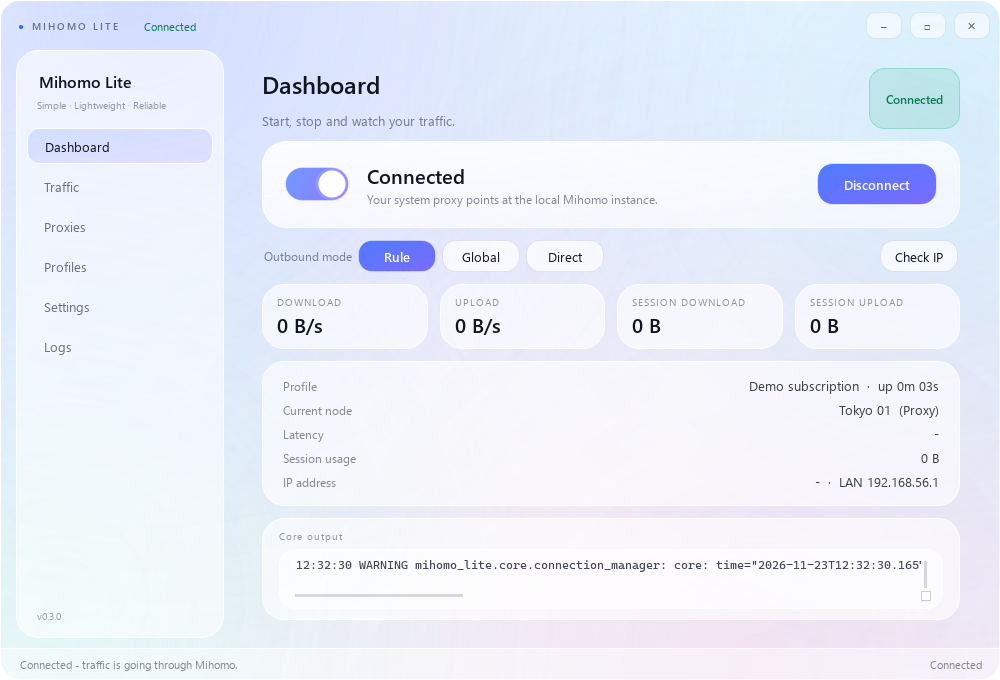
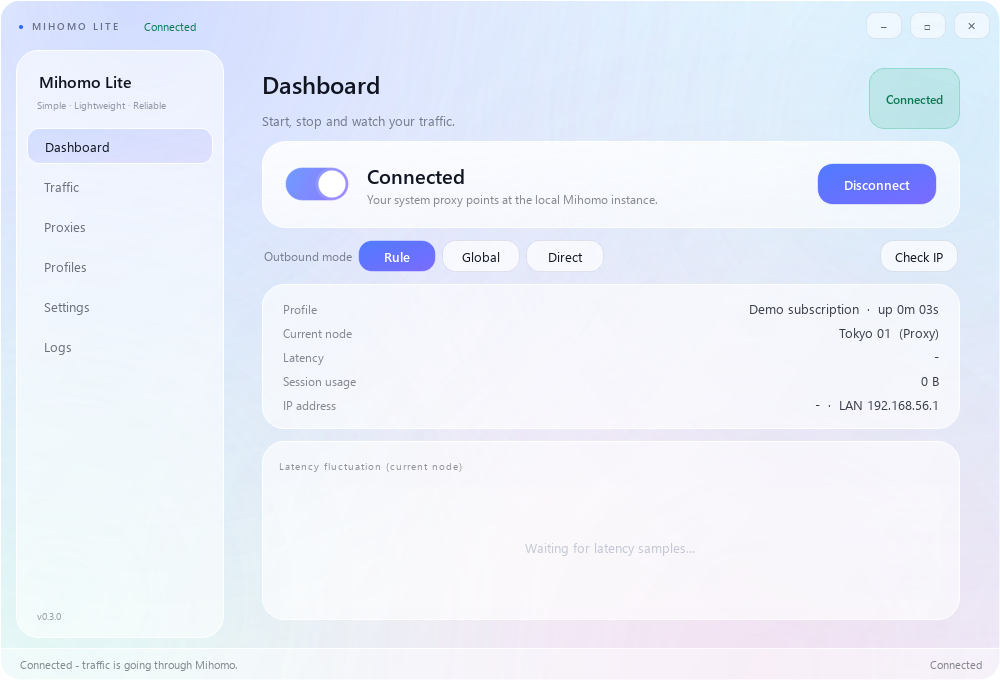
Add latency fluctuation chart to the dashboard

diff --git a/src/mihomo_lite/ui/dashboard.py b/src/mihomo_lite/ui/dashboard.py
@@ -8,7 +8,6 @@ from PySide6.QtCore import Qt, QTimer, Signal
 from PySide6.QtWidgets import (
     QButtonGroup,
     QFrame,
-    QGridLayout,
     QHBoxLayout,
     QLabel,
     QPushButton,
@@ -18,11 +17,11 @@ from PySide6.QtWidgets import (
 
 from mihomo_lite.core import net_tools
 from mihomo_lite.core.services import Services
-from mihomo_lite.core.traffic_monitor import TrafficSample, human_bytes, human_speed
+from mihomo_lite.core.traffic_monitor import TrafficSample, human_bytes
 from mihomo_lite.i18n import tr
 from mihomo_lite.models.app_state import ConnectionState
-from mihomo_lite.ui.widgets.log_view import LogView
-from mihomo_lite.ui.widgets.status import KeyValueRow, MetricTile, StatusPill
+from mihomo_lite.ui.widgets.latency_chart import LatencyChart
+from mihomo_lite.ui.widgets.status import KeyValueRow, StatusPill
 from mihomo_lite.ui.widgets.toggle import ToggleSwitch
 from mihomo_lite.utils.net import local_ip
 
@@ -93,9 +92,8 @@ class DashboardPage(QWidget):
 
         root.addWidget(self._build_connection_card())
         root.addWidget(self._build_mode_bar())
-        root.addLayout(self._build_metrics())
         root.addWidget(self._build_details_card())
-        root.addWidget(self._build_log_card(), 1)
+        root.addWidget(self._build_latency_card(), 1)
 
     def _build_connection_card(self) -> QWidget:
         card = QFrame()
@@ -159,21 +157,6 @@ class DashboardPage(QWidget):
         layout.addWidget(self._ip_button)
         return bar
 
-    def _build_metrics(self) -> QGridLayout:
-        grid = QGridLayout()
-        grid.setSpacing(12)
-        self._down_tile = MetricTile("Download", "0 B/s")
-        self._up_tile = MetricTile("Upload", "0 B/s")
-        self._total_down = MetricTile("Session download", "0 B")
-        self._total_up = MetricTile("Session upload", "0 B")
-        grid.addWidget(self._down_tile, 0, 0)
-        grid.addWidget(self._up_tile, 0, 1)
-        grid.addWidget(self._total_down, 0, 2)
-        grid.addWidget(self._total_up, 0, 3)
-        for column in range(4):
-            grid.setColumnStretch(column, 1)
-        return grid
-
     def _build_details_card(self) -> QWidget:
         card = QFrame()
         card.setObjectName("Card")
@@ -195,20 +178,20 @@ class DashboardPage(QWidget):
             layout.addWidget(row)
         return card
 
-    def _build_log_card(self) -> QWidget:
+    def _build_latency_card(self) -> QWidget:
         card = QFrame()
         card.setObjectName("Card")
         layout = QVBoxLayout(card)
         layout.setContentsMargins(16, 10, 16, 10)
+        layout.setSpacing(6)
         header = QHBoxLayout()
-        title = QLabel("Core output")
+        title = QLabel("Latency fluctuation (current node)")
         title.setObjectName("MetricLabel")
         header.addWidget(title)
         header.addStretch(1)
         layout.addLayout(header)
-        self._log = LogView(self)
-        self._log.setMinimumHeight(42)
-        layout.addWidget(self._log)
+        self._latency_chart = LatencyChart(self)
+        layout.addWidget(self._latency_chart)
         return card
 
     # -- behaviour ---------------------------------------------------------
@@ -294,6 +277,7 @@ class DashboardPage(QWidget):
         if group is None:
             self._node_row.set_value("-")
             self._latency_row.set_value("-")
+            self._latency_chart.clear()
             return
         self._node_row.set_value(f"{group.now}  ({group.name})")
         stats = self._services.proxy.stats.get(group.now, {})
@@ -305,6 +289,9 @@ class DashboardPage(QWidget):
             self._latency_row.set_value(f"{delay} ms  ±{jitter} ms")
         else:
             self._latency_row.set_value(f"{delay} ms")
+        self._latency_chart.set_series(
+            list(stats.get("history", [])), int(jitter or 0)
+        )
 
     def _on_node_stats(self, _stats: object) -> None:
         self._refresh_current_node()
@@ -366,10 +353,6 @@ class DashboardPage(QWidget):
 
     def _on_traffic(self, sample: TrafficSample) -> None:
         self._last_sample = sample
-        self._down_tile.set_value(human_speed(sample.down))
-        self._up_tile.set_value(human_speed(sample.up))
-        self._total_down.set_value(human_bytes(sample.down_total))
-        self._total_up.set_value(human_bytes(sample.up_total))
         if self._services.connection.session is not None:
             total = sample.down_total + sample.up_total
             self._usage_row.set_value(human_bytes(total))

diff --git a/src/mihomo_lite/ui/widgets/latency_chart.py b/src/mihomo_lite/ui/widgets/latency_chart.py
@@ -1,0 +1,96 @@
+"""Latency fluctuation chart for the current node."""
+
+from __future__ import annotations
+
+from PySide6.QtCore import QPointF, QRectF, Qt
+from PySide6.QtGui import QColor, QFont, QLinearGradient, QPainter, QPainterPath, QPen
+from PySide6.QtWidgets import QWidget
+
+
+class LatencyChart(QWidget):
+    def __init__(self, parent=None) -> None:
+        super().__init__(parent)
+        self._history: list[int] = []
+        self._jitter = 0
+        self.setMinimumHeight(124)
+
+    def set_series(self, history: list[int], jitter: int = 0) -> None:
+        self._history = [int(value) for value in history if value > 0][-60:]
+        self._jitter = max(0, int(jitter))
+        self.update()
+
+    def clear(self) -> None:
+        self._history = []
+        self._jitter = 0
+        self.update()
+
+    def paintEvent(self, event) -> None:  # noqa: N802 - Qt naming
+        painter = QPainter(self)
+        painter.setRenderHint(QPainter.RenderHint.Antialiasing)
+        rect = QRectF(self.rect()).adjusted(12, 10, -12, -20)
+
+        painter.setPen(Qt.PenStyle.NoPen)
+        painter.setBrush(QColor(255, 255, 255, 6))
+        painter.drawRoundedRect(QRectF(self.rect()).adjusted(0.5, 0.5, -0.5, -0.5), 14, 14)
+
+        history = self._history
+        if len(history) < 2:
+            painter.setPen(QColor(160, 170, 190, 160))
+            painter.drawText(self.rect(), Qt.AlignmentFlag.AlignCenter, "Waiting for latency samples…")
+            return
+
+        peak = max(max(history), 1)
+        low = min(history)
+        span = max(peak - low, 10)
+        top = low - span * 0.15
+        bottom = peak + span * 0.15
+        step = rect.width() / max(1, len(history) - 1)
+
+        def y_for(value: float) -> float:
+            ratio = (value - top) / (bottom - top)
+            return rect.bottom() - ratio * rect.height()
+
+        painter.setPen(QPen(QColor(255, 255, 255, 14), 1))
+        for index in range(1, 4):
+            y = rect.top() + rect.height() * index / 4
+            painter.drawLine(QPointF(rect.left(), y), QPointF(rect.right(), y))
+
+        points = [
+            QPointF(rect.left() + index * step, y_for(value))
+            for index, value in enumerate(history)
+        ]
+        area = QPainterPath(QPointF(points[0].x(), rect.bottom()))
+        for point in points:
+            area.lineTo(point)
+        area.lineTo(points[-1].x(), rect.bottom())
+        area.closeSubpath()
+        gradient = QLinearGradient(rect.topLeft(), rect.bottomLeft())
+        gradient.setColorAt(0.0, QColor(122, 162, 255, 120))
+        gradient.setColorAt(1.0, QColor(122, 162, 255, 8))
+        painter.setPen(Qt.PenStyle.NoPen)
+        painter.setBrush(gradient)
+        painter.drawPath(area)
+
+        painter.setBrush(Qt.BrushStyle.NoBrush)
+        painter.setPen(QPen(QColor(122, 162, 255), 2))
+        for first, second in zip(points, points[1:], strict=False):
+            painter.drawLine(first, second)
+        painter.setPen(Qt.PenStyle.NoPen)
+        painter.setBrush(QColor(122, 162, 255))
+        painter.drawEllipse(points[-1], 3.2, 3.2)
+
+        average = int(sum(history) / len(history))
+        painter.setPen(QPen(QColor(255, 255, 255, 60), 1, Qt.PenStyle.DashLine))
+        painter.drawLine(
+            QPointF(rect.left(), y_for(average)), QPointF(rect.right(), y_for(average))
+        )
+
+        painter.setPen(QColor(190, 200, 218, 220))
+        font = QFont(self.font())
+        font.setPointSizeF(max(7.5, font.pointSizeF() - 2))
+        painter.setFont(font)
+        painter.drawText(
+            QRectF(rect.left(), rect.bottom() + 4, rect.width(), 16),
+            Qt.AlignmentFlag.AlignLeft,
+            f"last {history[-1]} ms   avg {average} ms   jitter ±{self._jitter} ms",
+        )

diff --git a/tools/smoke/latency_preview.py b/tools/smoke/latency_preview.py
@@ -1,0 +1,21 @@
+import os, random, sys, tempfile
+os.environ["QT_QPA_PLATFORM"] = "offscreen"
+os.environ.setdefault("QT_QPA_FONTDIR", "C:/Windows/Fonts")
+os.environ.setdefault("MIHOMO_LITE_TRANSLUCENT", "1")
+os.environ["MIHOMO_LITE_HOME"] = tempfile.mkdtemp(prefix="mihomo-lat-")
+sys.path.insert(0, "src")
+
+from PySide6.QtWidgets import QApplication
+from mihomo_lite.app import MihomoLiteApp
+
+app = MihomoLiteApp(["MihomoLite.exe"])
+w = app.window
+w.resize(1000, 680)
+w.show()
+QApplication.processEvents()
+series = [40 + random.randint(-12, 30) for _ in range(45)]
+w._dashboard._latency_chart.set_series(series, 18)
+w._dashboard._latency_row.set_value("52 ms  ±18 ms")
+QApplication.processEvents()
+w.grab().save("tools/smoke/latency_dashboard.png")
+print("latency preview rendered")

diff --git a/src/mihomo_lite/core/proxy_manager.py b/src/mihomo_lite/core/proxy_manager.py
@@ -72,9 +72,16 @@ class ProxyManager(QObject):
                 continue
             samples = self._history.setdefault(name, [])
             samples.append(delay)
-            del samples[:-5]
-            jitter = max(samples) - min(samples) if len(samples) > 1 else 0
-            self._stats[name] = {"delay": delay, "jitter": jitter}
+            del samples[:-60]
+            window = samples[-5:]
+            jitter = max(window) - min(window) if len(window) > 1 else 0
+            average = int(sum(window) / len(window))
+            self._stats[name] = {
+                "delay": delay,
+                "jitter": jitter,
+                "average": average,
+                "history": list(samples),
+            }
 
     @property
     def stats(self) -> dict[str, dict[str, int]]:

diff --git a/src/mihomo_lite/ui/widgets/traffic_chart.py b/src/mihomo_lite/ui/widgets/traffic_chart.py
@@ -63,10 +63,10 @@ class TrafficChart(QWidget):
 
         painter.setBrush(Qt.BrushStyle.NoBrush)
         painter.setPen(QPen(QColor(122, 162, 255), 2))
-        for first, second in zip(down_points, down_points[1:]):
+        for first, second in zip(down_points, down_points[1:], strict=False):
             painter.drawLine(first, second)
         painter.setPen(QPen(QColor(70, 224, 160), 1.5))
-        for first, second in zip(up_points, up_points[1:]):
+        for first, second in zip(up_points, up_points[1:], strict=False):
             painter.drawLine(first, second)
 
         painter.setPen(QColor(170, 180, 200, 200))

diff --git a/src/mihomo_lite/i18n.py b/src/mihomo_lite/i18n.py
@@ -73,6 +73,8 @@ ZH: dict[str, str] = {
     "Usage": "用量",
     "Session usage": "本次用量",
     "IP address": "IP 地址",
+    "Latency fluctuation (current node)": "延迟波动（当前节点）",
+    "Waiting for latency samples…": "等待延迟采样…",
     "Checking…": "检测中…",
     "LAN IP": "内网 IP",
     "Speed test": "测速",
